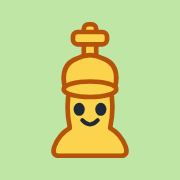
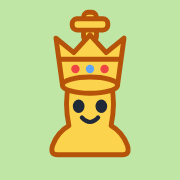
King wears a crown instead of a dome
The rounded dome under the cross read as a pawn's head. The king now has a jeweled crown with the cross on top, in the game art, the favicon and all four PNG app icons.

Changed region(s): [[0.25, 0.0556, 0.75, 0.8889]]

diff --git a/src/ui/art.tsx b/src/ui/art.tsx
@@ -61,9 +61,16 @@ function Top({ kind }: { kind: Kind }) {
     case 'king':
       return (
         <>
-          <rect x={46} y={5} width={8} height={24} rx={3} />
-          <rect x={39} y={10} width={22} height={8} rx={3} />
-          <path d="M34 47 Q30 31 42 27 Q50 23 58 27 Q70 31 66 47 Z" />
+          {/* A crown with a cross on top. A rounded dome here read as a pawn's head. */}
+          <rect x={46} y={2} width={8} height={18} rx={3} />
+          <rect x={39} y={6} width={22} height={7} rx={3} />
+          <path d="M33 47 L29 18 L40 27 L50 16 L60 27 L71 18 L67 47 Z" />
+          <path d="M31 31 H69" fill="none" />
+          <g stroke="none">
+            <circle cx={41} cy={37} r={2.6} fill="#ef4444" />
+            <circle cx={50} cy={37} r={2.6} fill="#60a5fa" />
+            <circle cx={59} cy={37} r={2.6} fill="#ef4444" />
+          </g>
         </>
       );
     case 'queen':
